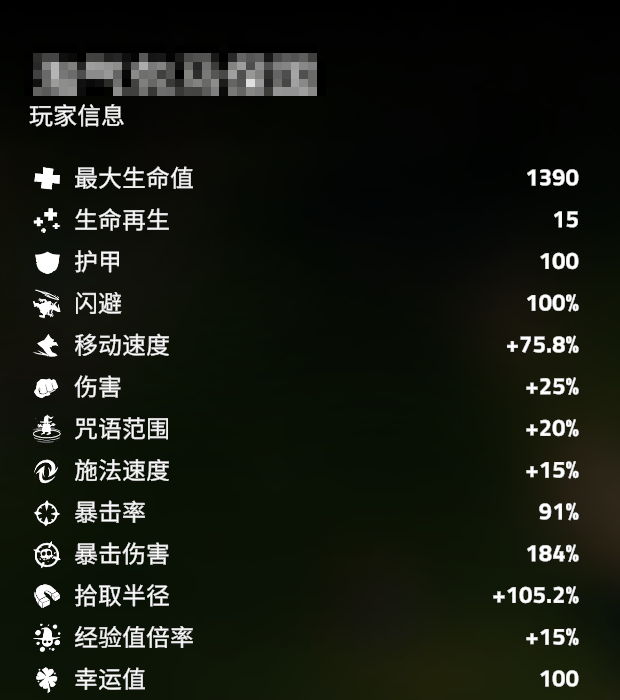
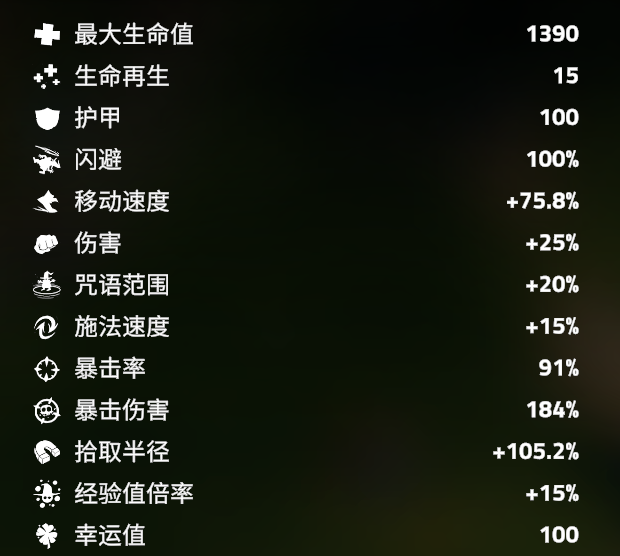
docs: crop the player name out of the in-game screenshot

diff --git a/README.en.md b/README.en.md
@@ -14,7 +14,7 @@ A [MelonLoader](https://melonloader.co/) mod for *The Spell Brigade*: in-run man
 |---|---|
 | ![Multipliers](docs/screenshots/panel-multipliers.png) | ![Stats](docs/screenshots/panel-stats.png) |
 
-Stat bonuses show up in **the game's own stat panel** — below, `Max Health 1390` = base 1350 + 40 from the panel (player name pixelated):
+Stat bonuses show up in **the game's own stat panel** — below, `Max Health 1390` = base 1350 + 40 from the panel (player name cropped out):
 
 ![In-game stats](docs/screenshots/ingame-stats.png)
 ## Install
@@ -144,4 +144,5 @@ Building therefore requires an actual game installation — CI cannot do it.
 - Mana/gold multipliers only take effect in single player or when you are the host (server-authoritative).
 - In co-op these are one-sided changes; tell your teammates first.
 - After a game update the IL2CPP proxies change; method names may need to be re-checked.
+
 

diff --git a/README.md b/README.md
@@ -15,7 +15,7 @@
 |---|---|
 | ![倍率页](docs/screenshots/panel-multipliers.png) | ![属性页](docs/screenshots/panel-stats.png) |
 
-属性加成会**直接反映到游戏自己的属性面板**上 —— 下图里 `最大生命值 1390` = 基础 1350 + 面板加成 40（玩家名已打码）：
+属性加成会**直接反映到游戏自己的属性面板**上 —— 下图里 `最大生命值 1390` = 基础 1350 + 面板加成 40（已裁掉玩家名）：
 
 ![游戏内属性面板](docs/screenshots/ingame-stats.png)
 ## 安装
@@ -136,5 +136,6 @@ pwsh -File .\package.ps1   # 生成 dist\SpellBrigadeGainMultipliers-<版本>.zi
 - 局内法力倍率/金币倍率只在单机或你是主机时生效（服务端结算）。
 - 联机使用属于单方面改动，组队前请先和队友说明。
 - 游戏更新后 IL2CPP 代理会变，方法名失效需要重新生成并核对。
+
 
 
